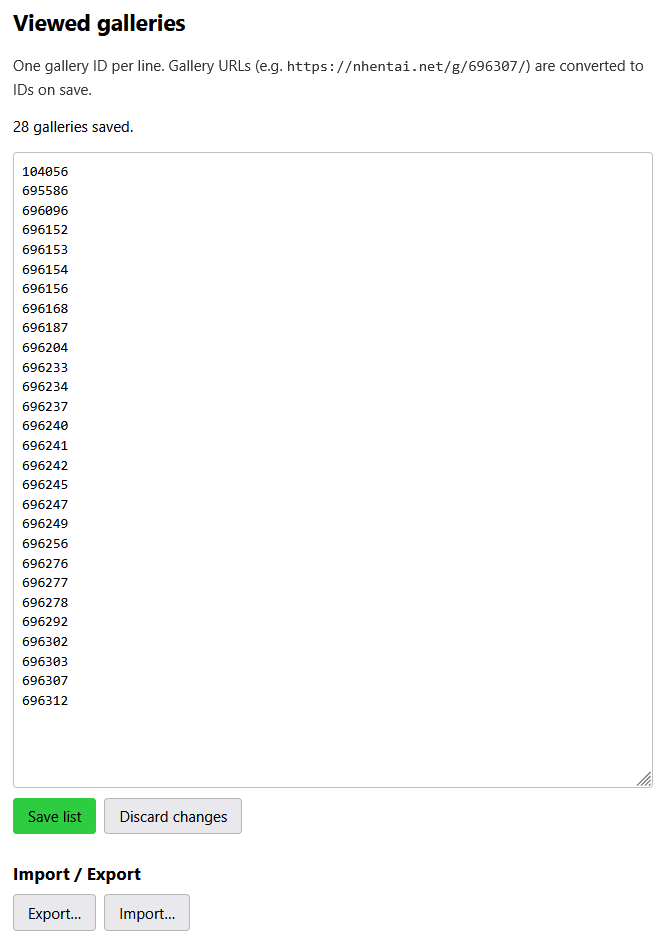
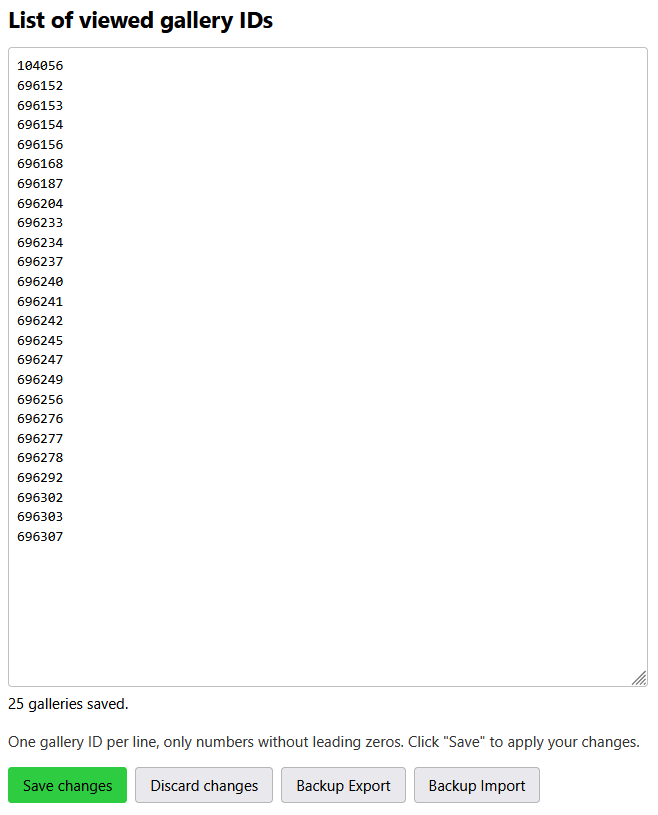
Options page rework, stricter ID validation, version 0.1.3
- Count and hint below the list, all buttons in one row with new labels,
  link to GitHub Issues for feedback
- Singular "1 gallery" in the count and in save/import/export messages
- IDs must not have leading zeros (and 0 is invalid); only complete
  nhentai gallery URLs are accepted. The content script uses the same
  ID rule.
- README and screenshot updated

diff --git a/src/options/options.html b/src/options/options.html
@@ -3,27 +3,23 @@
 <head>
   <meta charset="utf-8">
   <meta name="viewport" content="width=device-width, initial-scale=1">
-  <title>Read Marker for nHentai – Viewed galleries</title>
+  <title>Read Marker for nHentai – List of Viewed Gallery IDs</title>
   <link rel="stylesheet" href="options.css">
 </head>
 <body>
   <main>
-    <h1>Viewed galleries</h1>
-    <p class="hint">One gallery ID per line. Gallery URLs (e.g. <code>https://nhentai.net/g/696307/</code>) are converted to IDs on save.</p>
-
-    <p><span id="count">0</span> galleries saved.</p>
+    <h1>List of viewed gallery IDs</h1>
 
     <textarea id="list" spellcheck="false" autocomplete="off" aria-label="Gallery IDs, one per line"></textarea>
+    <p id="count" class="count">0 galleries saved.</p>
+
+    <p class="hint">One gallery ID per line, only numbers without leading zeros. Click "Save" to apply your changes.</p>
 
     <div class="row">
-      <button id="save" type="button" class="primary">Save list</button>
+      <button id="save" type="button" class="primary">Save changes</button>
       <button id="revert" type="button">Discard changes</button>
-    </div>
-
-    <h2>Import / Export</h2>
-    <div class="row">
-      <button id="export" type="button">Export…</button>
-      <button id="import" type="button">Import…</button>
+      <button id="export" type="button">Backup Export</button>
+      <button id="import" type="button">Backup Import</button>
       <input id="import-file" type="file" accept=".json,.txt,application/json,text/plain" hidden>
     </div>
 
@@ -36,6 +32,9 @@
     </div>
 
     <p id="status" role="status" aria-live="polite"></p>
+
+    <br>
+    <p class="feedback">Found a problem or have an idea for an improvement? Please report it on <a href="https://github.com/DonGrobione/Read-Marker-for-nHentai/issues" target="_blank" rel="noopener noreferrer">GitHub Issues</a>.</p>
   </main>
   <script src="../storage.js"></script>
   <script src="options.js"></script>

diff --git a/src/storage.js b/src/storage.js
@@ -7,9 +7,12 @@
 // eslint-disable-next-line no-unused-vars
 const ReadMarker = (() => {
   const KEY_PREFIX = "g:";
-  const ID_PATTERN = /^\d{1,10}$/;
-  // Accepts gallery URLs such as https://nhentai.net/g/696307/ in imports and edits.
-  const URL_ID = /\/g\/(\d{1,10})(?:\/|$)/;
+  // A gallery ID: 1 to 10 digits, no leading zero (so "0" and "0123" are invalid).
+  const ID_DIGITS = "[1-9]\\d{0,9}";
+  const ID_PATTERN = new RegExp(`^${ID_DIGITS}$`);
+  // Only complete gallery URLs, e.g. https://nhentai.net/g/696307/ or a reader
+  // page https://nhentai.net/g/696307/3/, optionally with a query or fragment.
+  const URL_ID = new RegExp(`^https?://(?:www\\.)?nhentai\\.net/g/(${ID_DIGITS})(?:[/?#].*)?$`);
 
   function keyFor(id) {
     return KEY_PREFIX + id;
@@ -22,10 +25,10 @@ const ReadMarker = (() => {
   function normalizeId(value) {
     const text = String(value).trim();
     if (ID_PATTERN.test(text)) {
-      return text.replace(/^0+(?=\d)/, "");
+      return text;
     }
     const match = URL_ID.exec(text);
-    return match ? match[1].replace(/^0+(?=\d)/, "") : null;
+    return match ? match[1] : null;
   }
 
   async function loadIds() {
@@ -105,5 +108,5 @@ const ReadMarker = (() => {
     return [...ids].sort((a, b) => Number(a) - Number(b));
   }
 
-  return { KEY_PREFIX, idFromKey, loadIds, addId, replaceIds, parseIdList, sortIds };
+  return { KEY_PREFIX, ID_DIGITS, idFromKey, loadIds, addId, replaceIds, parseIdList, sortIds };
 })();

diff --git a/src/options/options.js b/src/options/options.js
@@ -28,7 +28,11 @@
     const ids = ReadMarker.sortIds(await ReadMarker.loadIds());
     savedText = ids.join("\n");
     listEl.value = savedText;
-    countEl.textContent = String(ids.length);
+    countEl.textContent = `${galleryCount(ids.length)} saved.`;
+  }
+
+  function galleryCount(count) {
+    return `${count} galler${count === 1 ? "y" : "ies"}`;
   }
 
   function describeInvalid(invalid) {
@@ -44,7 +48,7 @@
     }
     await ReadMarker.replaceIds(ids);
     await refresh();
-    setStatus(`Saved ${ids.length} galleries.`);
+    setStatus(`Saved ${galleryCount(ids.length)}.`);
   }
 
   function idCount(count) {
@@ -77,7 +81,7 @@
     link.click();
     link.remove();
     setTimeout(() => URL.revokeObjectURL(url), 10000);
-    setStatus(`Exported ${ids.length} galleries.`);
+    setStatus(`Exported ${galleryCount(ids.length)}.`);
   }
 
   async function readImportFile() {
@@ -114,7 +118,7 @@
     importConfirmEl.hidden = true;
     await ReadMarker.replaceIds(ids);
     await refresh();
-    setStatus(`Imported ${ids.length} galleries. The previous list was overwritten.`);
+    setStatus(`Imported ${galleryCount(ids.length)}. The previous list was overwritten.`);
   }
 
   function cancelImport() {

diff --git a/src/content.js b/src/content.js
@@ -14,10 +14,12 @@
 (() => {
   const VIEWED_CLASS = "read-marker-viewed";
   // Any page of a gallery (overview or reader) counts as "opened".
-  const GALLERY_PAGE = /^\/g\/(\d+)(?:\/|$)/;
+  // IDs use the same rule as the options page (no leading zero), so nothing is
+  // recorded that the list editor would reject.
+  const GALLERY_PAGE = new RegExp(`^/g/(${ReadMarker.ID_DIGITS})(?:/|$)`);
   // Thumbnails link to the gallery overview only; reader links (/g/<id>/<page>/)
   // are page thumbnails inside a gallery and must not be framed.
-  const THUMBNAIL_LINK = /^\/g\/(\d+)\/?$/;
+  const THUMBNAIL_LINK = new RegExp(`^/g/(${ReadMarker.ID_DIGITS})/?$`);
   const UPDATE_DELAY_MS = 100;
 
   let viewed = new Set();

diff --git a/src/options/options.css b/src/options/options.css
@@ -42,6 +42,11 @@ textarea {
   resize: vertical;
 }
 
+/* Directly under the textarea, close to it. */
+.count {
+  margin: 4px 0 0;
+}
+
 .row {
   display: flex;
   flex-wrap: wrap;
@@ -79,6 +84,14 @@ button.danger {
 /* One empty line (1.5em = line-height) before the buttons. */
 .confirm p {
   margin: 0 0 1.5em;
+}
+
+.feedback {
+  margin-top: 2em;
+  padding-top: 1em;
+  border-top: 1px solid var(--border);
+  font-size: 0.9em;
+  opacity: 0.8;
 }
 
 #status.error {

diff --git a/README.md b/README.md
@@ -14,11 +14,11 @@ A Firefox extension that remembers which galleries you opened on [nhentai.net](h
 
 Click the toolbar button (or *Add-ons → Read Marker for nHentai → Options*) to open the list:
 
-- **Edit:** one gallery ID per line. Add, remove or paste gallery URLs, then *Save list*.
-- **Export:** saves the list as a `.json` file.
-- **Import:** loads a `.json` export or a text file with one ID/URL per line. **Import overwrites the current list** (you are asked to confirm).
+- **Edit:** one gallery ID per line (numbers without leading zeros). Add, remove or paste complete gallery URLs, then *Save changes*.
+- **Backup Export:** saves the list as a `.json` file.
+- **Backup Import:** loads a `.json` export or a text file with one ID/URL per line. **Import overwrites the current list** (you are asked to confirm).
 
-![The list page with saved gallery IDs, Save/Discard and Import/Export buttons](docs/example_options.png)
+![The list page with saved gallery IDs and the Save, Discard and Backup buttons](docs/example_options.png)
 
 ## Install (local testing)
 
@@ -39,7 +39,7 @@ This project is not affiliated with, endorsed by, or connected to nhentai. nhent
 ### Privacy
 
 - No usage data is tracked, except the IDs of galleries you viewed. They are saved locally in your Firefox profile (`browser.storage.local`).
-- Removing the extension will also delete the gallery list. Back it up (Export) if required.
+- Removing the extension will also delete the gallery list. Back it up (Backup Export) if required.
 - Only works with `https://nhentai.net`.
 
 ### AI tooling

diff --git a/CHANGELOG.md b/CHANGELOG.md
@@ -7,6 +7,22 @@ and this project adheres to [Semantic Versioning](https://semver.org/spec/v2.0.0
 
 ## [Unreleased]
 
+## [0.1.3] - 2026-11-12
+
+### Added
+
+- List page: link to GitHub Issues for reporting problems and suggesting improvements.
+
+### Changed
+
+- List page: new heading "List of viewed gallery IDs"; the gallery count and the hint are now shown below the list.
+- List page: all buttons in one row, renamed to "Save changes", "Discard changes", "Backup Export" and "Backup Import".
+- Stricter list validation: gallery IDs with leading zeros (e.g. `0123`) and `0` are rejected, and only complete gallery URLs (`https://nhentai.net/g/<id>/…`) are accepted. Lines that merely contain `/g/<id>` are no longer accepted.
+
+### Fixed
+
+- Singular wording for one gallery: "1 gallery saved." instead of "1 galleries saved." (also in the save, import and export messages).
+
 ## [0.1.2] - 2026-11-12
 
 ### Added
